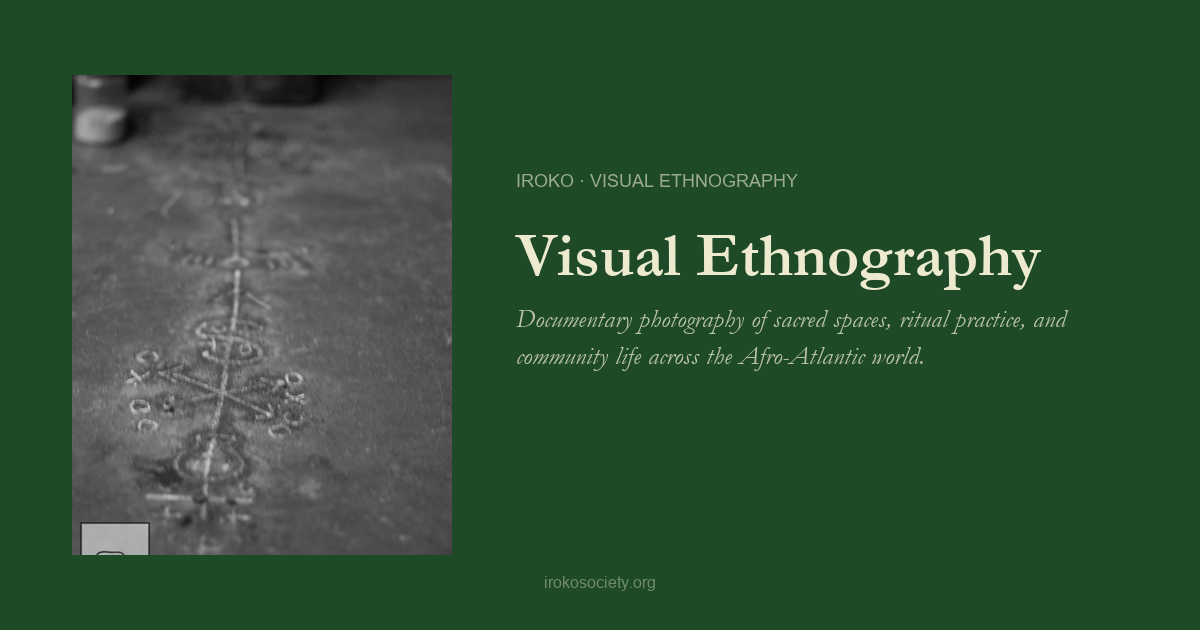
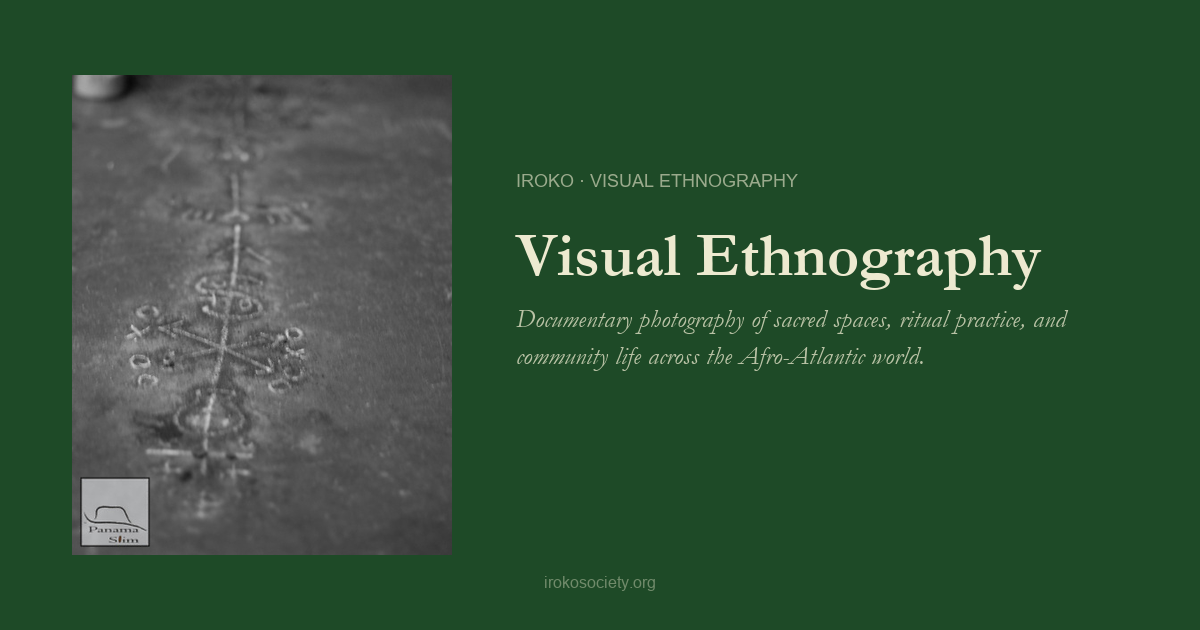
Update og-visual-ethnography.png and generate-og.py

Changed region(s): [[0.0617, 0.1206, 0.37, 0.9048]]

diff --git a/generate-og.py b/generate-og.py
@@ -237,8 +237,15 @@ def render_logo_panel(img: Image.Image) -> int:
     return TEXT_X_LOGO
 
 
-def render_photo_panel(img: Image.Image, photo_url: str) -> int:
-    """Download and paste photo. Returns text_x."""
+def render_photo_panel(img: Image.Image, photo_url: str,
+                       offset_x: int = 0, offset_y: int = 0) -> int:
+    """Download and paste photo. Returns text_x.
+
+    offset_x / offset_y: shift the crop window in pixels from the default
+    centre position. Positive x moves the window right (reveals more of the
+    left side of the source); positive y moves it down (reveals more of the
+    top). Use negative values to go the other way.
+    """
     print(f"    Downloading photo …")
     r = requests.get(photo_url, timeout=30)
     r.raise_for_status()
@@ -255,8 +262,10 @@ def render_photo_panel(img: Image.Image, photo_url: str) -> int:
         new_h = int(photo.height * PHOTO_W / photo.width)
 
     photo = photo.resize((new_w, new_h), Image.LANCZOS)
-    left  = (new_w - PHOTO_W) // 2
-    top   = (new_h - PHOTO_H) // 2
+
+    # Default centre crop, shifted by offset
+    left = max(0, min((new_w - PHOTO_W) // 2 + offset_x, new_w - PHOTO_W))
+    top  = max(0, min((new_h - PHOTO_H) // 2 + offset_y, new_h - PHOTO_H))
     photo = photo.crop((left, top, left + PHOTO_W, top + PHOTO_H))
     img.paste(photo, (PHOTO_X, PHOTO_Y))
     return TEXT_X_PHOTO
@@ -270,7 +279,11 @@ def make_og_image(page: dict) -> Image.Image:
 
     # Left panel
     if page.get("layout") == "photo":
-        text_x = render_photo_panel(img, page["photo_url"])
+        text_x = render_photo_panel(
+            img, page["photo_url"],
+            offset_x=page.get("photo_offset_x", 0),
+            offset_y=page.get("photo_offset_y", 0),
+        )
     else:
         text_x = render_logo_panel(img)
 
@@ -518,6 +531,11 @@ PAGES = [
             "/I00001I.Ui3.Uzdk/fit=700x700/fill="
             "/g=G0000n01IpmZArsk/I00001I.Ui3.Uzdk.jpg"
         ),
+        # Crop offset — tweak these to reframe the photo:
+        # positive offset_x → shift window right (shows more left edge of photo)
+        # positive offset_y → shift window down  (shows more top of photo)
+        photo_offset_x = 0,
+        photo_offset_y = 50,
         label      = "IROKO · VISUAL ETHNOGRAPHY",
         title      = "Visual Ethnography",
         subtitle   = "Documentary photography of sacred spaces, ritual practice, and community life across the Afro-Atlantic world.",